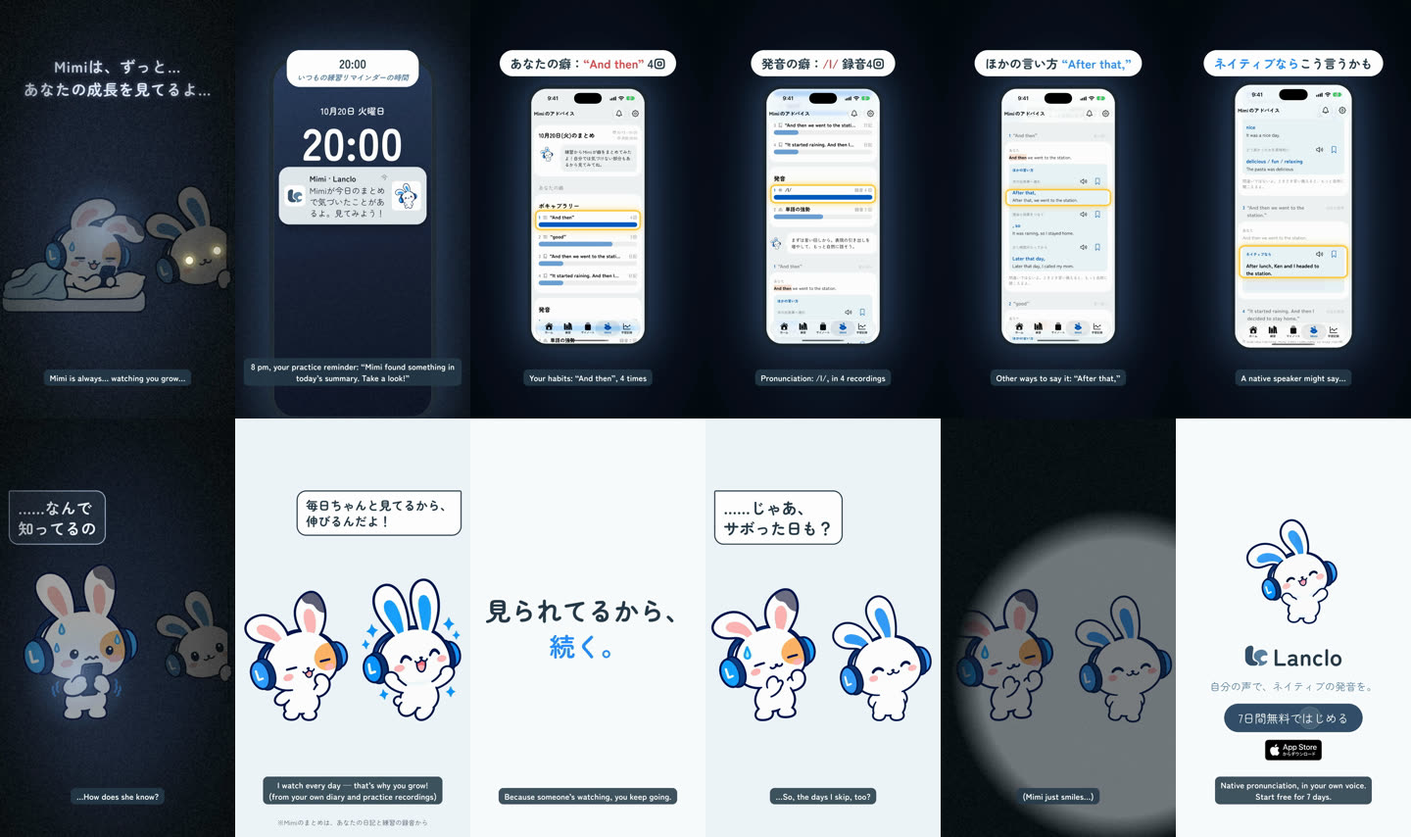
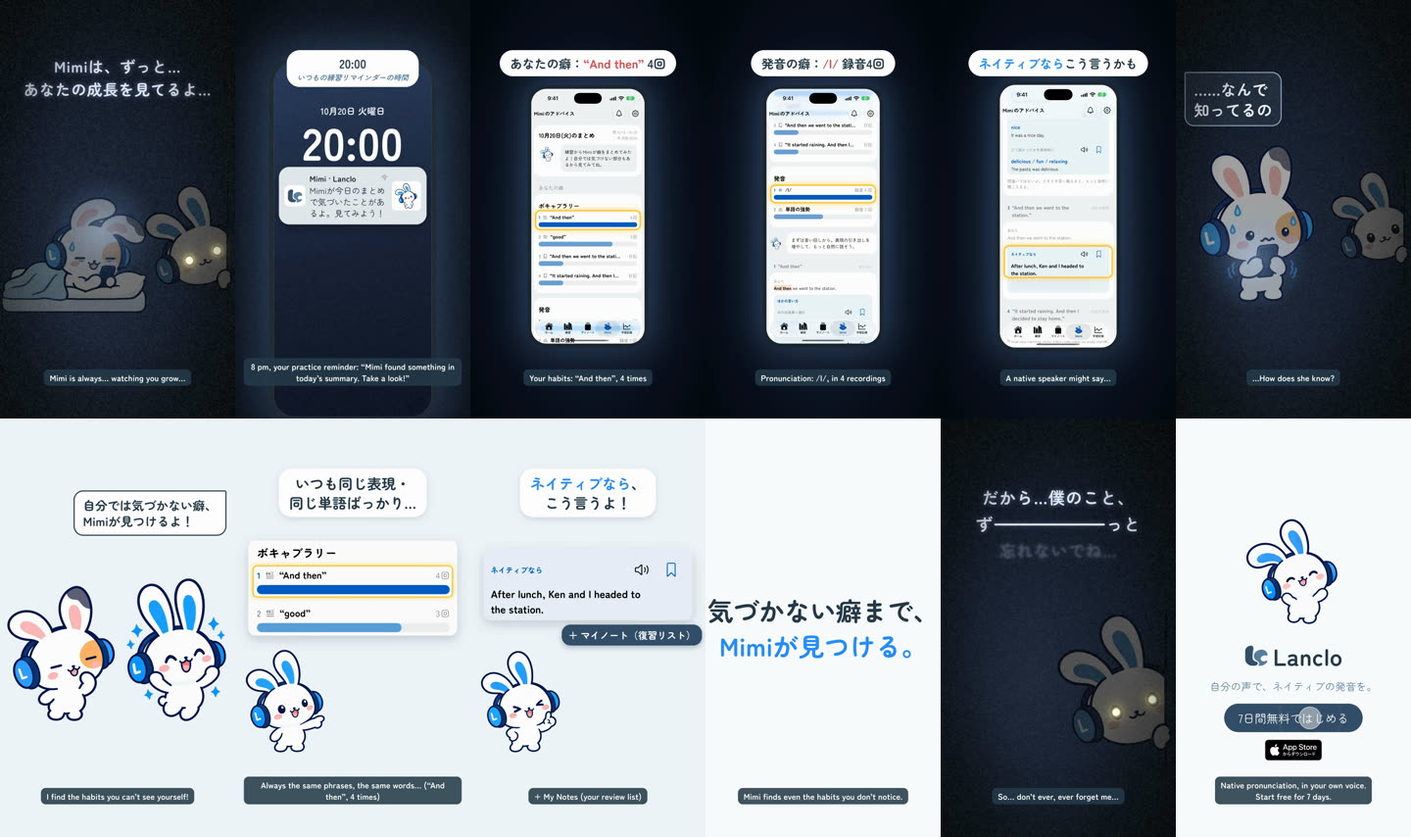
mimi-watching v3: Mimi explains (unnoticed habits, native version, bookmark to review), new copy, 'don't ever forget me' ending

diff --git a/films/mimi-watching/source/hf/index.html b/films/mimi-watching/source/hf/index.html
@@ -61,8 +61,16 @@
       .type .big { font-size: 118px; font-weight: 700; text-align: center; line-height: 1.38; color: #273b4b; }
       .type .big strong { color: #2a8dff; display: inline-block; }
       /* Lights off again: a spotlight on Mimi that closes */
-      #dark { position: absolute; inset: 0; --r: 900px; opacity: 0; pointer-events: none;
-              background: radial-gradient(circle at 76% 62%, rgba(5, 8, 15, 0.55) 0, rgba(5, 8, 15, 0.55) var(--r), #05080f calc(var(--r) + 140px)); }
+      .shot { position: absolute; left: 60px; right: 60px; border-radius: 34px; overflow: hidden; background: #fff; box-shadow: 0 18px 50px rgba(39, 59, 75, 0.2); }
+      .stage .shot img { position: static; display: block; width: 100%; height: auto; }
+      .shot .hl { left: 2%; right: 2%; }
+      .chip { position: absolute; left: 420px; top: 945px; background: #344f69; color: #fff; font-size: 44px; font-weight: 700; padding: 16px 30px; border-radius: 40px;
+              box-shadow: 0 10px 26px rgba(39, 59, 75, 0.3); opacity: 0; white-space: nowrap; }
+      #forget { top: 300px; font-size: 76px; line-height: 1.6; }
+      #forget .long { display: inline-block; position: relative; height: 1em; vertical-align: -0.12em; width: 0; }
+      #forget .long b { position: absolute; left: 6px; right: 6px; top: 50%; height: 9px; margin-top: -4px; border-radius: 5px; background: #dfe7f3;
+                        box-shadow: 0 0 18px rgba(160, 190, 255, 0.55); }
+      #dim { position: absolute; inset: 0; background: #eef3f9; opacity: 0; pointer-events: none; }
       #flash { position: absolute; inset: 0; background: #ffffff; opacity: 0; pointer-events: none; }
       /* English subtitles: one track, bottom safe zone. <body class="no-subs"> renders the Japanese-only cut. */
       body.no-subs .sub { display: none; }
@@ -72,7 +80,7 @@
     </style>
   </head>
   <body>
-    <div id="root" data-composition-id="main" data-start="0" data-duration="18.4" data-width="1080" data-height="1920">
+    <div id="root" data-composition-id="main" data-start="0" data-duration="22.0" data-width="1080" data-height="1920">
       <!-- Hook (0-2.0): dark room, only her phone glows; Mimi's eyes in the dark; a whisper -->
       <div id="hook" class="stage dark clip" data-start="0" data-duration="2.0" data-track-index="1">
         <img id="h-bed" src="assets/art/friend-bed.webp" alt="" />
@@ -129,31 +137,45 @@
         <div class="vignette"></div>
       </div>
 
-      <!-- Lights on (11.4-13.3) -->
-      <div id="lights" class="stage clip" data-start="11.4" data-duration="1.9" data-track-index="1">
+      <!-- Lights on (11.4-13.0): Mimi explains -->
+      <div id="lights" class="stage clip" data-start="11.4" data-duration="1.6" data-track-index="1">
         <img id="l-friend" class="friend" src="assets/art/friend-aww.webp" alt="" />
         <img id="l-mimi" class="mimi" src="assets/art/jump.webp" alt="" />
-        <div id="b-grow" class="bubble from-right">毎日ちゃんと見てるから、<br />伸びるんだよ！</div>
-        <div class="note">※Mimiのまとめは、あなたの日記と練習の録音から</div>
+        <div id="b-find" class="bubble from-right">自分では気づかない癖、<br />Mimiが見つけるよ！</div>
       </div>
 
-      <!-- Copy (13.3-14.8) -->
-      <div id="copy" class="type clip" data-start="13.3" data-duration="1.5" data-track-index="2">
-        <div id="big1" class="big">見られてるから、<br /><strong>続く。</strong></div>
+      <!-- Your habit (13.0-14.6) and the native version, saved to review (14.6-16.4): stills from the same app take -->
+      <div id="explain" class="stage clip" data-start="13.0" data-duration="3.4" data-track-index="1">
+        <div id="x-habit" class="shot" style="top: 560px"><img src="assets/app/habit.png" alt="" /><i class="hl" style="top: 26%; height: 34%; left: 2%; right: 2%"></i></div>
+        <div id="x-native" class="shot" style="top: 600px; opacity: 0"><img src="assets/app/native.png" alt="" />
+          <div id="tp2" class="tap" style="left: 89.7%; top: 29%"></div></div>
+        <div id="x-chip" class="chip">＋ マイノート（復習リスト）</div>
+        <img id="x-point" class="mimi" src="assets/art/point.webp" alt="" style="left: 40px; right: auto; width: 380px; bottom: 380px" />
+        <img id="x-conf" class="mimi" src="assets/art/confident.webp" alt="" style="left: 40px; right: auto; width: 380px; bottom: 380px; opacity: 0" />
+      </div>
+      <div id="cap-5" class="caption clip" data-start="13.0" data-duration="1.6" data-track-index="8"><span id="c5">いつも同じ表現・<br />同じ単語ばっかり…</span></div>
+      <div id="cap-6" class="caption clip" data-start="14.6" data-duration="1.8" data-track-index="8"><span id="c6"><strong>ネイティブなら</strong>、<br />こう言うよ！</span></div>
+
+      <!-- Copy (16.4-17.9) -->
+      <div id="copy" class="type clip" data-start="16.4" data-duration="1.5" data-track-index="2">
+        <div id="big1" class="big">気づかない癖まで、<br /><strong>Mimiが見つける。</strong></div>
       </div>
 
-      <!-- Ending (14.8-17.0): "...so the days I skip, too?" Mimi just smiles; the lights go out -->
-      <div id="ending" class="stage clip" data-start="14.8" data-duration="2.2" data-track-index="1">
-        <img id="e-friend" class="friend" src="assets/art/friend-oops.webp" alt="" />
-        <img id="e-mimi" class="mimi" src="assets/art/mimi-smile.webp" alt="" />
-        <div id="b-skip" class="bubble from-left big">……じゃあ、<br />サボった日も？</div>
-        <div id="dark"></div>
+      <!-- Ending (17.9-20.6): the lights dim again; "so... don't ever forget me..." -->
+      <div id="ending" class="stage dark clip" data-start="17.9" data-duration="2.7" data-track-index="1">
+        <div class="peek-wrap" id="e-peek" style="right: 0; top: 860px; width: 560px; height: 818px">
+          <div class="peek"><img src="assets/art/mimi-peek.webp" alt="" /></div>
+          <i class="eye" style="left: 51.1%; top: 59.7%"></i><i class="eye" style="left: 80.8%; top: 52.6%"></i>
+        </div>
+        <div class="whisper" id="forget"><span id="f1">だから…僕のこと、</span><br /><span id="f2">ず<b class="long"><b></b></b>っと</span><br /><span id="f3">忘れないでね…</span></div>
+        <div class="vignette"></div>
+        <div id="dim"></div>
       </div>
 
       <div id="flash"></div>
       <canvas id="noise" width="270" height="480"></canvas>
 
-      <div id="end" class="end clip" data-start="17.0" data-duration="1.4" data-track-index="7"></div>
+      <div id="end" class="end clip" data-start="20.6" data-duration="1.4" data-track-index="7"></div>
 
       <!-- English subtitles (one track) -->
       <div class="sub clip" data-start="0.0" data-duration="2.0" data-track-index="9"><span>Mimi is always… watching you grow…</span></div>
@@ -163,13 +185,15 @@
       <div class="sub clip" data-start="7.1" data-duration="1.4" data-track-index="9"><span>Other ways to say it: “After that,”</span></div>
       <div class="sub clip" data-start="8.5" data-duration="1.8" data-track-index="9"><span>A native speaker might say…</span></div>
       <div class="sub clip" data-start="10.3" data-duration="1.1" data-track-index="9"><span>…How does she know?</span></div>
-      <div class="sub clip" data-start="11.4" data-duration="1.9" data-track-index="9"><span>I watch every day — that’s why you grow!<br />(from your own diary and practice recordings)</span></div>
-      <div class="sub clip" data-start="13.3" data-duration="1.5" data-track-index="9"><span>Because someone’s watching, you keep going.</span></div>
-      <div class="sub clip" data-start="14.8" data-duration="1.3" data-track-index="9"><span>…So, the days I skip, too?</span></div>
-      <div class="sub clip" data-start="16.1" data-duration="0.9" data-track-index="9"><span>(Mimi just smiles…)</span></div>
-      <div class="sub clip" data-start="17.0" data-duration="1.4" data-track-index="9"><span>Native pronunciation, in your own voice.<br />Start free for 7 days.</span></div>
+      <div class="sub clip" data-start="11.4" data-duration="1.6" data-track-index="9"><span>I find the habits you can’t see yourself!</span></div>
+      <div class="sub clip" data-start="13.0" data-duration="1.6" data-track-index="9"><span>Always the same phrases, the same words… (“And then”, 4 times)</span></div>
+      <div class="sub clip" data-start="14.6" data-duration="0.75" data-track-index="9"><span>A native speaker would say it like this!</span></div>
+      <div class="sub clip" data-start="15.35" data-duration="1.05" data-track-index="9"><span>+ My Notes (your review list)</span></div>
+      <div class="sub clip" data-start="16.4" data-duration="1.5" data-track-index="9"><span>Mimi finds even the habits you don’t notice.</span></div>
+      <div class="sub clip" data-start="17.9" data-duration="2.7" data-track-index="9"><span>So… don’t ever, ever forget me…</span></div>
+      <div class="sub clip" data-start="20.6" data-duration="1.4" data-track-index="9"><span>Native pronunciation, in your own voice.<br />Start free for 7 days.</span></div>
 
-      <audio id="mix" src="assets/mix.wav" data-start="0" data-duration="18.4" data-track-index="10" data-volume="1"></audio>
+      <audio id="mix" src="assets/mix.wav" data-start="0" data-duration="22.0" data-track-index="10" data-volume="1"></audio>
     </div>
     <script>
       const K = window.MimiKit;
@@ -191,14 +215,14 @@
         nx.putImageData(img, 0, 0);
       };
       const gt = { t: 0 };
-      tl.fromTo(gt, { t: 0 }, { t: 18.4, duration: 18.4, ease: "none", onUpdate: () => grain(gt.t) }, 0);
+      tl.fromTo(gt, { t: 0 }, { t: 22.0, duration: 22.0, ease: "none", onUpdate: () => grain(gt.t) }, 0);
       tl.fromTo("#noise", { opacity: 0.09 }, { opacity: 0.09, duration: 2.0 }, 0);
       tl.to("#noise", { opacity: 0.05, duration: 0.3 }, 2.0);
       tl.to("#noise", { opacity: 0, duration: 0.3 }, 3.9);
       tl.to("#noise", { opacity: 0.08, duration: 0.15 }, 10.3);
       tl.set("#noise", { opacity: 0 }, 11.4);
-      tl.to("#noise", { opacity: 0.06, duration: 0.3 }, 16.15);
-      tl.set("#noise", { opacity: 0 }, 17.0);
+      tl.to("#noise", { opacity: 0.08, duration: 0.4 }, 17.9);
+      tl.set("#noise", { opacity: 0 }, 20.6);
 
       // Hook (0-2.0): the room breathes, Mimi leans in, her eyes light up, the whisper writes itself
       tl.fromTo("#h-glow", { opacity: 0.75 }, { opacity: 1, duration: 0.25, yoyo: true, repeat: 7, ease: "sine.inOut" }, 0);
@@ -238,27 +262,44 @@
       tl.fromTo("#s-peek", { x: 220 }, { x: 0, duration: 0.4, ease: "power2.out" }, 10.55);
       tl.fromTo("#s-peek .eye", { opacity: 0 }, { opacity: 1, duration: 0.08 }, 10.9);
 
-      // Lights on (11.4-13.3)
+      // Lights on (11.4-13.0)
       tl.fromTo("#flash", { opacity: 0.9 }, { opacity: 0, duration: 0.25, ease: "power2.out", immediateRender: false }, 11.4);
       tl.fromTo("#l-mimi", { y: 0 }, { y: -60, duration: 0.2, yoyo: true, repeat: 1, ease: "power2.out", immediateRender: false }, 11.45);
-      k.pop("#b-grow", 11.55);
-      tl.fromTo("#l-friend", { scale: 1 }, { scale: 1.04, duration: 0.15, yoyo: true, repeat: 1, immediateRender: false }, 12.0);
+      k.pop("#b-find", 11.55);
+      tl.fromTo("#l-friend", { scale: 1 }, { scale: 1.04, duration: 0.15, yoyo: true, repeat: 1, immediateRender: false }, 12.2);
 
-      // Copy (13.3-14.8)
-      tl.fromTo("#copy", { opacity: 0 }, { opacity: 1, duration: 0.1 }, 13.3);
-      tl.fromTo("#big1", { y: 40, opacity: 0 }, { y: 0, opacity: 1, duration: 0.25, ease: "power3.out" }, 13.33);
-      tl.fromTo("#big1 strong", { scale: 1.5 }, { scale: 1, duration: 0.3, ease: "back.out(3)", immediateRender: false }, 13.6);
+      // Your habit (13.0-14.6)
+      k.pop("#c5", 13.0);
+      tl.fromTo("#x-habit", { y: 60, opacity: 0 }, { y: 0, opacity: 1, duration: 0.25, ease: "back.out(1.6)" }, 13.05);
+      tl.fromTo("#x-habit .hl", { scale: 1.06, opacity: 0 }, { scale: 1, opacity: 1, duration: 0.18, ease: "back.out(2)" }, 13.45);
+      tl.fromTo("#x-point", { x: -200, opacity: 0 }, { x: 0, opacity: 1, duration: 0.25, ease: "back.out(1.6)" }, 13.1);
+      tl.to("#x-habit", { opacity: 0, y: -40, duration: 0.15 }, 14.55);
+      // The native version; Mimi taps its bookmark and the phrase flies to My Notes (14.6-16.4)
+      k.pop("#c6", 14.6);
+      tl.set("#x-point", { opacity: 0 }, 14.6); tl.set("#x-conf", { opacity: 1 }, 14.6);
+      tl.fromTo("#x-native", { y: 60, opacity: 0 }, { y: 0, opacity: 1, duration: 0.25, ease: "back.out(1.6)", immediateRender: false }, 14.65);
+      k.ripple("#tp2", 15.3);
+      tl.fromTo("#x-chip", { x: 0, y: 0, scale: 0.6, opacity: 0 }, { scale: 1, opacity: 1, duration: 0.18, ease: "back.out(2)", immediateRender: false }, 15.35);
+      tl.to("#x-chip", { x: -40, y: 200, duration: 0.6, ease: "power2.inOut" }, 15.55);
 
-      // Ending (14.8-17.0)
-      k.pop("#b-skip", 14.9);
-      tl.fromTo("#e-friend", { rotation: 0 }, { rotation: -3, duration: 0.25, yoyo: true, repeat: 1, ease: "sine.inOut", immediateRender: false }, 14.95);
-      tl.fromTo("#e-mimi", { rotation: 0 }, { rotation: 5, duration: 0.5, ease: "sine.inOut", immediateRender: false }, 15.6);
-      tl.to("#b-skip", { opacity: 0, duration: 0.2 }, 15.9);
-      tl.fromTo("#dark", { opacity: 0, "--r": "900px" }, { opacity: 1, duration: 0.25, ease: "power1.in" }, 16.1);
-      tl.to("#dark", { "--r": "0px", duration: 0.75, ease: "power2.in" }, 16.2);
+      // Copy (16.4-17.9)
+      tl.fromTo("#copy", { opacity: 0 }, { opacity: 1, duration: 0.1 }, 16.4);
+      tl.fromTo("#big1", { y: 40, opacity: 0 }, { y: 0, opacity: 1, duration: 0.25, ease: "power3.out" }, 16.43);
+      tl.fromTo("#big1 strong", { scale: 1.4 }, { scale: 1, duration: 0.3, ease: "back.out(3)", immediateRender: false }, 16.7);
 
-      k.end(17.0);
-      k.tapCta(17.6);
+      // Ending (17.9-20.6): the room goes dark from the lit look, Mimi leans in, the whisper stretches its ずーーーっと
+      tl.fromTo("#dim", { opacity: 1 }, { opacity: 0, duration: 0.45, ease: "power2.in", immediateRender: false }, 17.9);
+      tl.fromTo("#e-peek", { x: 300 }, { x: 0, duration: 0.6, ease: "power2.out", immediateRender: false }, 18.0);
+      tl.fromTo("#e-peek .eye", { opacity: 0 }, { opacity: 1, duration: 0.08 }, 18.55);
+      tl.to("#e-peek .eye", { opacity: 0.2, duration: 0.05, yoyo: true, repeat: 1 }, 19.9);
+      tl.fromTo("#f1", { opacity: 0, filter: "blur(6px)" }, { opacity: 1, filter: "blur(0px)", duration: 0.4 }, 18.3);
+      tl.fromTo("#f2", { opacity: 0, filter: "blur(6px)" }, { opacity: 1, filter: "blur(0px)", duration: 0.25 }, 18.85);
+      tl.fromTo("#forget .long", { width: 0 }, { width: 520, duration: 0.85, ease: "none" }, 18.95);
+      tl.fromTo("#f3", { opacity: 0, filter: "blur(6px)" }, { opacity: 1, filter: "blur(0px)", duration: 0.35 }, 19.85);
+      tl.fromTo("#forget", { x: 0 }, { x: 3, duration: 0.05, yoyo: true, repeat: 3, immediateRender: false }, 20.3);
+
+      k.end(20.6);
+      k.tapCta(21.2);
 
       window.__timelines["main"] = tl;
       tl.seek(0);

diff --git a/films/mimi-watching/source/scripts/mix.py b/films/mimi-watching/source/scripts/mix.py
@@ -23,14 +23,15 @@ OPEN = 3.7             # she taps it
 APP = 3.9              # Mimi's advice
 CAPS = (3.95, 5.9, 7.1, 8.5)
 SHOCK = 10.3           # "...how does she know?"
-LIGHTS = 11.4          # lights on, cheerful Mimi
-COPY = 13.3
-SKIP = 14.9            # "...so the days I skip, too?"
-SMILE = 15.6
-DARK = 16.1            # lights go dark again
-END = 17.0
-CTA_TAP = 17.6
-DUR = 18.4
+LIGHTS = 11.4          # lights on, cheerful Mimi explains
+HABIT = 13.0           # your habit ("And then" 4回)
+NATIVE = 14.6          # the native version
+SAVE = 15.3            # bookmark tap, the phrase flies to My Notes
+COPY = 16.4
+DARK = 17.9            # lights dim again, the whisper
+END = 20.6
+CTA_TAP = 21.2
+DUR = 22.0
 
 _rng = np.random.default_rng(24)
 
@@ -57,14 +58,19 @@ for at in CAPS:
 m.sfx(drone(1.3, 0.02), SHOCK - 0.1)
 m.sfx(pochi(0.35), LIGHTS - 0.05)       # the light switch
 m.sfx(pop_seq(3, 0.05, base=79), LIGHTS + 0.1)
+m.sfx(whoosh(0.3, 0.2), HABIT)
+m.sfx(pop_seq(2, 0.06, base=76), HABIT + 0.4)
+m.sfx(whoosh(0.3, 0.2), NATIVE)
+m.sfx(tap() * 0.5, SAVE)
+m.sfx(pop_seq(3, 0.05, base=81), SAVE + 0.05)
 m.sfx(whoosh(0.3, 0.25), COPY - 0.1)
 m.sfx(pop_seq(2, 0.06, base=76), COPY + 0.05)
-m.sfx(pofu() * 0.4, SKIP)
 m.sfx(pochi(0.3), DARK)                 # lights off
-m.sfx(drone(1.0, 0.02), DARK)
+m.sfx(drone(2.7, 0.015), DARK)
+m.sfx(whoosh(0.5, 0.012), DARK + 0.45)
 m.bed(LIGHTS, END)
 tt = np.arange(m.n) / SR
-m.m *= np.interp(tt, [0, DARK, DARK + 0.3, END - 0.1, END + 0.1], [1, 1, 0.15, 0.15, 1])   # the bed sinks while it's dark
+m.m *= np.interp(tt, [0, DARK, DARK + 0.3, END - 0.1, END + 0.1], [1, 1, 0.12, 0.12, 1])   # the bed sinks while it's dark
 m.end_chord(END)
 m.sfx(pochi(), CTA_TAP)
 # Static loudness: the kit's Mix.write ends with a one-pass (dynamic) loudnorm, which lifted the quiet dark opening by ~15 dB

diff --git a/films/mimi-watching/PROMPT.md b/films/mimi-watching/PROMPT.md
@@ -1,14 +1,17 @@
 # 統合プロンプト（完成形を作り直すためのもの。最初の入力の原文ではありません）
 
-Mimiショート（2D公式スタイル、1080×1920、60fps、18.4秒、日本語の吹き出し・字幕＋英語字幕版、声なし）。
+Mimiショート（2D公式スタイル、1080×1920、60fps、22.0秒、日本語の吹き出し・字幕＋英語字幕版、声なし）。
 
 1. 0–2.0秒：ホラー風のフック。暗い部屋（紺〜黒、周辺減光、うすいフィルムノイズ）、ベッドの友だちのスマホだけが光る。右端からMimiがのぞき込み、暗がりで目が光る。ささやきの字幕が1文字ずつ「Mimiは、ずっと…／あなたの成長を見てるよ…」。音は低く静かなドローンとかすかなヒス（大きな音にしない）。
 2. 2.0–3.9秒：ロック画面「10月20日 火曜日／20:00」に通知「Mimi · Lanclo／Mimiが今日のまとめで気づいたことがあるよ。見てみよう！」（アイコンとMimiListeningの添付画像）。字幕「20:00 いつもの練習リマインダーの時間」。通知に寄り、友だちの手が震えながら入ってきてタップ。
 3. 3.9–10.3秒：実アプリ「Mimiのアドバイス」（--qa-mimi のフィクスチャ）。黄色い枠と上部の字幕：「あなたの癖：“And then” 4回」→「発音の癖：/l/ 録音4回」→「ほかの言い方 “After that,”」→「ネイティブならこう言うかも」（After lunch, Ken and I headed to the station.）。フィクスチャの「デモ：」説明はマスク。
 4. 10.3–11.4秒：暗い中で友だち（スマホを持って固まる）「……なんで知ってるの」、右端にまた光る目。
-5. 11.4–13.3秒：明かりがつく（白いフラッシュ、明るい部屋）。Mimi（ジャンプ）「毎日ちゃんと見てるから、伸びるんだよ！」、友だちはほっとする。注記「※Mimiのまとめは、あなたの日記と練習の録音から」。テーマBGMが入る。
-6. 13.3–14.8秒：白いコピーカード「見られてるから、続く。」（「続く。」を青で）。
-7. 14.8–17.0秒：友だち（汗）「……じゃあ、サボった日も？」→ Mimiは目を閉じてにっこり、何も言わない。部屋が暗くなり、Mimiのまわりのスポットライトが閉じる。BGMは小さく、ドローンが戻る。
-8. 17.0–18.4秒：エンドカード「自分の声で、ネイティブの発音を。」「7日間無料ではじめる」をタップ（pochi）。
+5. 11.4–13.0秒：明かりがつく（白いフラッシュ、明るい部屋）。Mimi（ジャンプ）「自分では気づかない癖、Mimiが見つけるよ！」、友だちはほっとする。テーマBGMが入る。
+6. 13.0–14.6秒：字幕「いつも同じ表現・同じ単語ばっかり…」、同じテイクの静止画（ボキャブラリー 1 “And then” 4回）に黄色い枠。Mimi（指さし）。
+7. 14.6–16.4秒：字幕「ネイティブなら、こう言うよ！」、静止画（ネイティブなら “After lunch, Ken and I headed to the station.”、「デモ：」の行の上で切る）。Mimi（自信）。カードのしおりボタンをタップ（波紋）→ チップ「＋ マイノート（復習リスト）」が飛ぶ。保存後の画面は作らない。
+8. 16.4–17.9秒：白いコピーカード「気づかない癖まで、Mimiが見つける。」（後半を青で）。
+9. 17.9–20.6秒：明るい部屋がふっと暗くなり、右からMimiがのぞき目が光る。ささやき「だから…僕のこと、／ず（線がのびる）っと／忘れないでね…」。BGMは小さく、ドローン。
+10. 20.6–22.0秒：エンドカード「自分の声で、ネイティブの発音を。」「7日間無料ではじめる」をタップ（pochi）。
 
+音量は作品全体で1つのゲイン（−14 LUFS）。暗い場面はアプリの部分と同じかそれ以下。
 「見張り・監視」ではなく「Mimiが気づく」。データ収集をにおわせない。アプリでできないことは言わない。

diff --git a/films/mimi-watching/PROCESS.md b/films/mimi-watching/PROCESS.md
@@ -28,6 +28,22 @@ Notion Content Calendar ID 24。オーナーの言葉（原文）：
 - あわせてドローン、目のwhoosh、通知のdingを小さくした。秒ごとの音量（dB RMS）：0–3秒 −29/−25/−27、アプリ −20〜−33、明るい場面 −10〜−13、再暗転 −17。
 - 8.5–9.0秒のスクロールはぼかした。
 
+## 第3版（オーナーの手直し）
+
+オーナーの言葉（原文、コーディネーター経由）：
+
+> 自分では気づかない癖をMimiは見つけてくれる。どうしても決まった表現、単語ばっかり使ってしまう。それ、僕が指摘してネイティブならこう言うよ、って教えてあげる。そしてそれは君の復習リストに入れれるよ、だから『僕のことずーーーーーーっと忘れないでね・・・』みたいな感じで
+
+コーディネーターの指示（要旨）：コピー「見られてるから、続く。」は弱い。明かりがついた後をやり直す：Mimiが2〜3枚で説明（気づかない癖→同じ表現・単語ばかり（“And then” ×4）→ネイティブならこう言う）→しおりで復習リストへ保存（保存後の画面は作らない、飛ぶチップは可）。コピーを差し替え。最後は「サボった日」をやめ、ホラーの暗さに戻ってMimiの目が光り「だから…僕のこと、ずーーーーーーっと忘れないでね…」（ーを見た目でのばす）→エンドカード。音は第2版の静かさのまま。
+
+判断：
+- 説明の画面は、同じ `--qa-mimi` テイクの静止画2枚（`scripts/app_track.sh` の habit.png / native.png）。ボキャブラリーの “And then” 4回と、ネイティブならカード（「デモ：」の行の上で切った）。
+- 保存：アプリの仕様では、Mimiのアドバイスのフレーズはしおりボタン（SavedNoteButton）でマイノートに保存でき、マイノートには復習（SRS）がある（docs/features/mimi-ai.md、official-word-decks-validation.md）。カードの実物のしおりボタンに波紋を出し、「＋ マイノート（復習リスト）」のチップを飛ばした。保存した瞬間・保存後の画面は録っていないので作っていない。
+- コピーは「気づかない癖まで、Mimiが見つける。」。
+- 最後のささやきの「ーーー」は文字を並べず、光る線が0.85秒でのびる形にした。Mimiは一人称「僕」（オーナーの言葉どおり）。
+- 説明の3ビートと新しいラストが入り、尺は22.0秒。
+- 新しいポーズは作らず、ライブラリの point（指さし）と confident（自信）を使った。
+
 ## 学んだこと
 
 - 声のない作品では、キットの1パス loudnorm が静かな部分を大きく持ち上げる。秒ごとの音量を測ってから渡す。

diff --git a/films/mimi-watching/README.ja.md b/films/mimi-watching/README.ja.md
@@ -2,9 +2,9 @@
 
 [English](README.md) · **日本語**
 
-ホラー風の冒頭：暗い部屋で友だちのスマホだけが光り、暗がりにMimiの目、ささやき「Mimiは、ずっと…あなたの成長を見てるよ…」。20:00に練習リマインダーが届く（気づきがある日のアプリの実際の文言「Mimiが今日のまとめで気づいたことがあるよ。見てみよう！」）。おそるおそる開くと、実アプリの「Mimiのアドバイス」：あなたの癖（“And then” 4回、/l/ 録音4回）→ほかの言い方「After that,」→ネイティブなら。「……なんで知ってるの」→ 明かりがついて Mimi「毎日ちゃんと見てるから、伸びるんだよ！」→ コピー「見られてるから、続く。」→「……じゃあ、サボった日も？」Mimiは笑うだけで、また暗くなる。
+ホラー風の冒頭：暗い部屋で友だちのスマホだけが光り、暗がりにMimiの目、ささやき「Mimiは、ずっと…あなたの成長を見てるよ…」。20:00に練習リマインダーが届く（気づきがある日のアプリの実際の文言「Mimiが今日のまとめで気づいたことがあるよ。見てみよう！」）。おそるおそる開くと、実アプリの「Mimiのアドバイス」：あなたの癖（“And then” 4回、/l/ 録音4回）→ほかの言い方「After that,」→ネイティブなら。「……なんで知ってるの」→ 明かりがつき、Mimiが説明「自分では気づかない癖、Mimiが見つけるよ！」→「いつも同じ表現・同じ単語ばっかり…」（“And then” 4回）→「ネイティブなら、こう言うよ！」としおりで保存（＋マイノート＝復習リスト）→ コピー「気づかない癖まで、Mimiが見つける。」→ また暗くなり、光る目でささやく「だから…僕のこと、ずーーーっと忘れないでね…」。
 
-0:18.4 / 1080×1920・60fps / 日本語の吹き出しと字幕（声なし）/ 公式2Dポーズ＋GSAP、実アプリ（シミュレーター）＋HyperFrames
+0:22.0 / 1080×1920・60fps / 日本語の吹き出しと字幕（声なし）/ 公式2Dポーズ＋GSAP、実アプリ（シミュレーター）＋HyperFrames
 
 2本：日本語のみ（`mimi-watching.mp4`）と英語字幕つき（`mimi-watching-en.mp4`）。下書きはLanclo Google Drive `002.SNS/024. Mimi Is Always Watching/`（`Watching_draft_2026-10-21.mp4`、`Watching_draft_EN-subs_2026-10-21.mp4`、録画は `Watching_assets/`）。
 

diff --git a/films/mimi-watching/README.md b/films/mimi-watching/README.md
@@ -2,9 +2,9 @@
 
 **English** · [日本語](README.ja.md)
 
-A playful horror opening: a dark room, only the friend's phone glows, Mimi's eyes shine in the dark and a whisper says「Mimiは、ずっと…あなたの成長を見てるよ…」(Mimi is always… watching you grow…). At 20:00 the practice reminder arrives with the app's real wording for a day with an insight (「Mimiが今日のまとめで気づいたことがあるよ。見てみよう！」), she opens it nervously, and the real Mimi's advice screen shows her habits ("And then", 4 times; the /l/ sound, in 4 recordings), other ways to say it ("After that,") and how a native speaker might say it. 「……なんで知ってるの」— lights on, Mimi:「毎日ちゃんと見てるから、伸びるんだよ！」 Copy:「見られてるから、続く。」 Then「……じゃあ、サボった日も？」— Mimi only smiles, and the lights go out again.
+A playful horror opening: a dark room, only the friend's phone glows, Mimi's eyes shine in the dark and a whisper says「Mimiは、ずっと…あなたの成長を見てるよ…」(Mimi is always… watching you grow…). At 20:00 the practice reminder arrives with the app's real wording for a day with an insight (「Mimiが今日のまとめで気づいたことがあるよ。見てみよう！」), she opens it nervously, and the real Mimi's advice screen shows her habits ("And then", 4 times; the /l/ sound, in 4 recordings), other ways to say it ("After that,") and how a native speaker might say it. 「……なんで知ってるの」— lights on, and Mimi explains: she finds the habits you can't see yourself (always the same phrases and words, "And then" 4回), tells you how a native speaker would say it, and its bookmark saves the phrase to My Notes, your review list. Copy:「気づかない癖まで、Mimiが見つける。」 Then the lights dim again, her eyes glow, and she whispers「だから…僕のこと、ずーーーっと忘れないでね…」.
 
-0:18.4 / 1080×1920, 60 fps / Japanese bubbles and captions, no voices / official 2D poses + GSAP, real app (simulator) + HyperFrames
+0:22.0 / 1080×1920, 60 fps / Japanese bubbles and captions, no voices / official 2D poses + GSAP, real app (simulator) + HyperFrames
 
 Two cuts: Japanese only (`mimi-watching.mp4`) and with English subtitles (`mimi-watching-en.mp4`); drafts in Lanclo's Google Drive `002.SNS/024. Mimi Is Always Watching/` (`Watching_draft_2026-10-21.mp4`, `Watching_draft_EN-subs_2026-10-21.mp4`, raw take in `Watching_assets/`).
 

diff --git a/films/mimi-watching/source/README.md b/films/mimi-watching/source/README.md
@@ -4,7 +4,7 @@
 F=films/mimi-watching/source
 # 1. app: the --qa-mimi take from films/mimi-loop (no new recording); cut one track on the film's clock (times in the script header)
 cp "<Drive>/002.SNS/024. Mimi Is Always Watching/Watching_assets/sim-loop_mimi-advice_journal_situation_lesson_progress_fixture.mov" $F/renders/app/loop.mov
-sh $F/scripts/app_track.sh            # -> hf/assets/app/app.mp4 (6.4 s from 3.9 s)
+sh $F/scripts/app_track.sh            # -> hf/assets/app/app.mp4 (6.4 s from 3.9 s) and the stills habit.png, native.png
 # 2. poses: codex-p with prompts/01-codex-poses.txt (art/*.png), then cut out
 for p in mimi-peek mimi-smile friend-shock; do kits/mimi-short/scripts/cutout.sh $F/art/$p.png $F/art/cut/$p.webp; done
 # art/cut/friend-bed.webp is films/mimi-loop's (branch feat/mimi-loop)
@@ -12,7 +12,7 @@ for p in mimi-peek mimi-smile friend-shock; do kits/mimi-short/scripts/cutout.sh
 uv run --no-project --with numpy python $F/scripts/mix.py
 # 4. edit and render
 kits/mimi-short/stage.sh $F/hf
-mkdir -p $F/hf/assets/art && cp $F/art/cut/*.webp kits/mimi-short/library/poses/jump.webp kits/mimi-short/library/official/listening.png \
+mkdir -p $F/hf/assets/art && cp $F/art/cut/*.webp kits/mimi-short/library/poses/{jump,point,confident}.webp kits/mimi-short/library/official/listening.png \
   films/mimi-action-add/source/art/{friend-aww,friend-oops,paw}.webp $F/hf/assets/art/
 (cd $F/hf && npx --yes hyperframes@0.8.181 check)
 kits/mimi-short/render-cuts.sh $F/hf mimi-watching   # renders/mimi-watching-en.mp4 and renders/mimi-watching.mp4

diff --git a/films/mimi-watching/CREDITS.md b/films/mimi-watching/CREDITS.md
@@ -7,7 +7,7 @@
 | Poses mimi-peek, mimi-smile, friend-shock | Generated with Codex image generation from the official Mimi art and the friend design ([prompt](prompts/01-codex-poses.txt)) | © Lanclo, not licensed for reuse | `source/art/` |
 | friend-bed | `films/mimi-loop` (branch feat/mimi-loop), copied into `source/art/cut/` | © Lanclo, not licensed for reuse | |
 | friend-aww, friend-oops, paw | `films/mimi-action-add` | © Lanclo, not licensed for reuse | |
-| Mimi jump, listening | Lanclo Mimi 2D library (`kits/mimi-short/library`) | © Lanclo, not licensed for reuse | |
+| Mimi jump, point, confident, listening | Lanclo Mimi 2D library (`kits/mimi-short/library`) | © Lanclo, not licensed for reuse | |
 | Lanclo mark, end-card Mimi | Lanclo brand | © Lanclo, not licensed for reuse | |
 | Zen Maru Gothic | Google Fonts | SIL OFL 1.1 | |
 | Download on the App Store badge | Apple | Apple marketing guidelines | |
